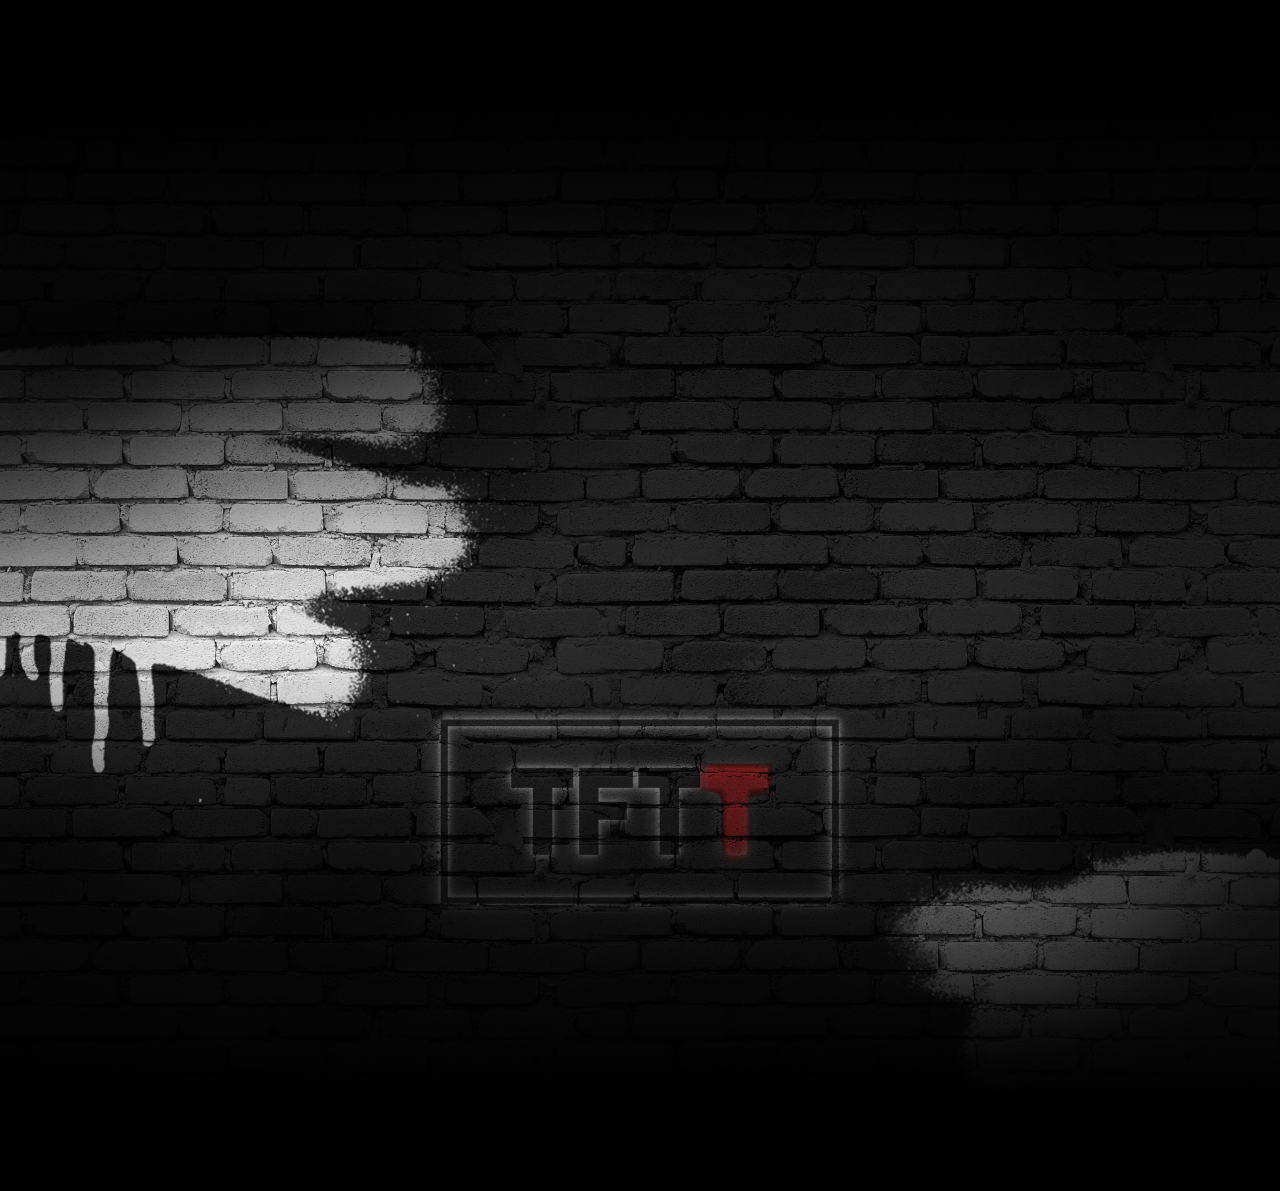
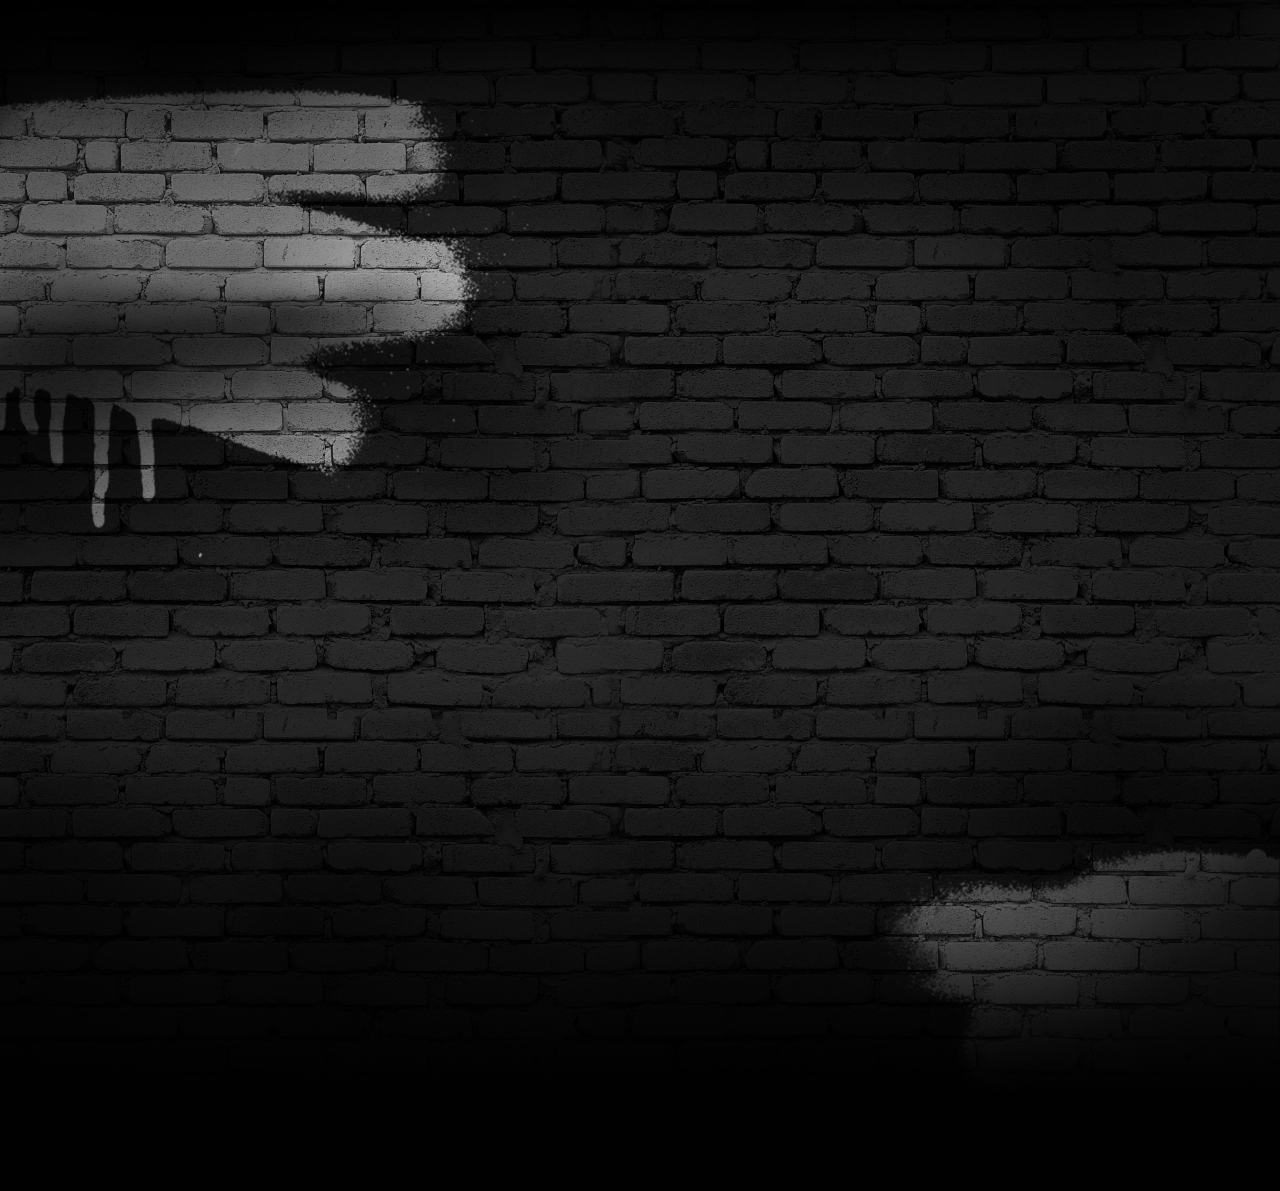
update footer

Changed region(s): [[0.0, 0.0621, 0.375, 0.6524], [0.3438, 0.5903, 0.6562, 0.7145]]

diff --git a/src/components/Footer/styles.jsx b/src/components/Footer/styles.jsx
@@ -1,6 +1,9 @@
 import styled from 'styled-components'
 import { ResponsiveTo } from '@/hooks/useResponsive'
+
 export const Container = styled.div`
+  position: relative;
+  z-index: 5;
   width: 100%;
   height: 256px;
   ${ResponsiveTo('md')}{
@@ -11,7 +14,7 @@ export const Container = styled.div`
     height: 388px;
   }
   ${ResponsiveTo('xl')}{
-    height: 596px;
+    height: auto;
   }
 `
 export const Contain = styled.section`
@@ -23,6 +26,10 @@ export const Contain = styled.section`
   align-items: center;
   max-width: 706px;
   margin: 0 auto;
+  h1, div{
+    position: relative;
+    z-index: 1;
+  }
   div{
     display: grid;
     place-items: center;
@@ -65,4 +72,37 @@ export const Contain = styled.section`
       font-size: 144px;
     }
   }
+`
+export const ImgTFTT = styled.div`
+  display: grid;
+  position: relative;
+  z-index: 0;
+  width: 123px;
+  height: 64px;
+  margin-bottom: -20px;
+  img{
+    width: 100%;
+  }
+  .fade-img{
+    position: absolute;
+    z-index: 1;
+    bottom: 0;
+    left: 0;
+  }
+  ${ResponsiveTo('md')}{
+    width: 211px;
+    height: 110px;
+    margin-bottom: -40px;
+  }
+  ${ResponsiveTo('lg')}{
+    width: 285px;
+    height: 148px;
+    margin-bottom: -50px;
+  }
+  ${ResponsiveTo('xl')}{
+    width: 429px;
+    height: 222px;
+    margin-bottom: -70px;
+  }
+
 `

diff --git a/src/components/StepInto/styles.jsx b/src/components/StepInto/styles.jsx
@@ -26,23 +26,26 @@ export const Container = styled.div`
     width: 234px;
     margin: 0 auto;
   }
+  margin-bottom: -180px;
   ${ResponsiveTo('md')}{
     background-size: cover;
     height: 728px;
-    background-position-y: 60px;
+    background-position-y: 0px;
     .experience-text{
       width: 100%;
     }
+    margin-bottom: -80px;
   }
   ${ResponsiveTo('lg')}{
     height: 952px;
-    background-size: 1280px 1191px;
-    background-position-y: -100px;
+    background-size: cover;
+    margin-bottom: -180px;
   }
   ${ResponsiveTo('xl')}{
     height: 1191px;
-    background-size: cover;
-    background-position-y: 100px;
+    background-size: cover
+    ;
+    background-position-y: 0;
   }
 `
 

diff --git a/src/components/Footer/index.jsx b/src/components/Footer/index.jsx
@@ -1,10 +1,17 @@
 import React from 'react'
-import { Contain, Container } from './styles'
+import { Contain, Container, ImgTFTT } from './styles'
 import logo from '@/logos/logoTFTT.svg'
+import imgTftt from '@/images/footer/TFTT.png'
+import imgFade from '@/images/footer/FADE.png'
 export default function Footer () {
   return (
     <Container>
       <Contain>
+        <ImgTFTT>
+          <img className='tftt-img' src={imgTftt} alt=" tftt logo" />
+          <img className='fade-img' src={imgFade} alt="fade image" />
+        </ImgTFTT>
+
         <h1 className='style-border'>
           COMING <br /> SOON
         </h1>

diff --git a/src/components/StepInto/index.jsx b/src/components/StepInto/index.jsx
@@ -12,10 +12,10 @@ export default function StepInto () {
           <Article />
         </Grid>
       </div>
-      <div className='experience-text'>
+      {/* <div className='experience-text'>
         <h2>Experience the <span>trap</span></h2>
         <h3><span>From the inside out</span></h3>
-      </div>
+      </div> */}
     </Container>
   )
 }
